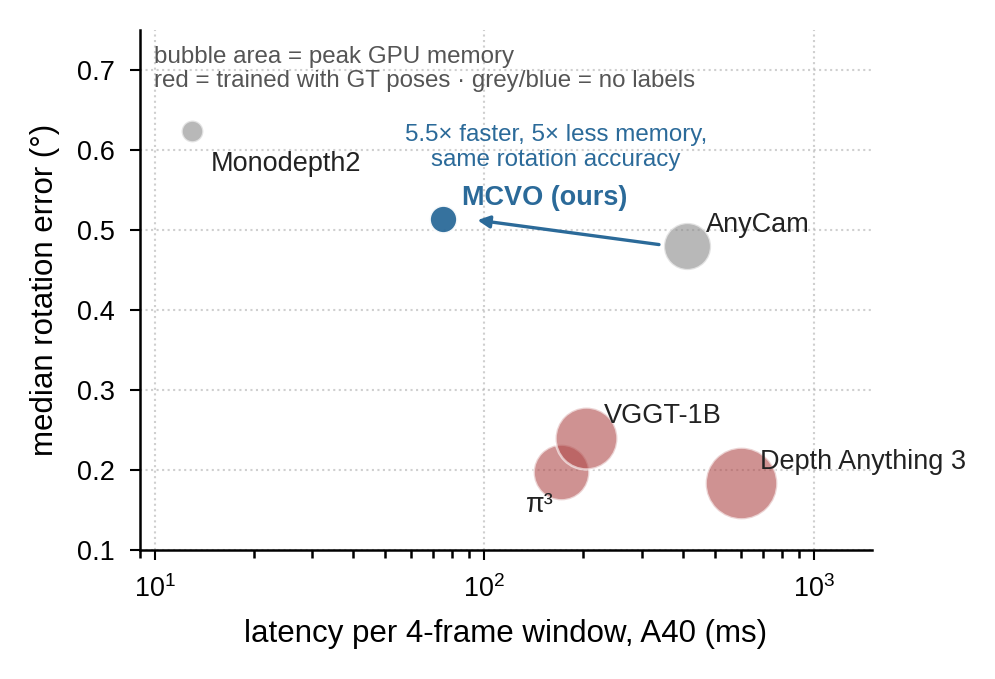
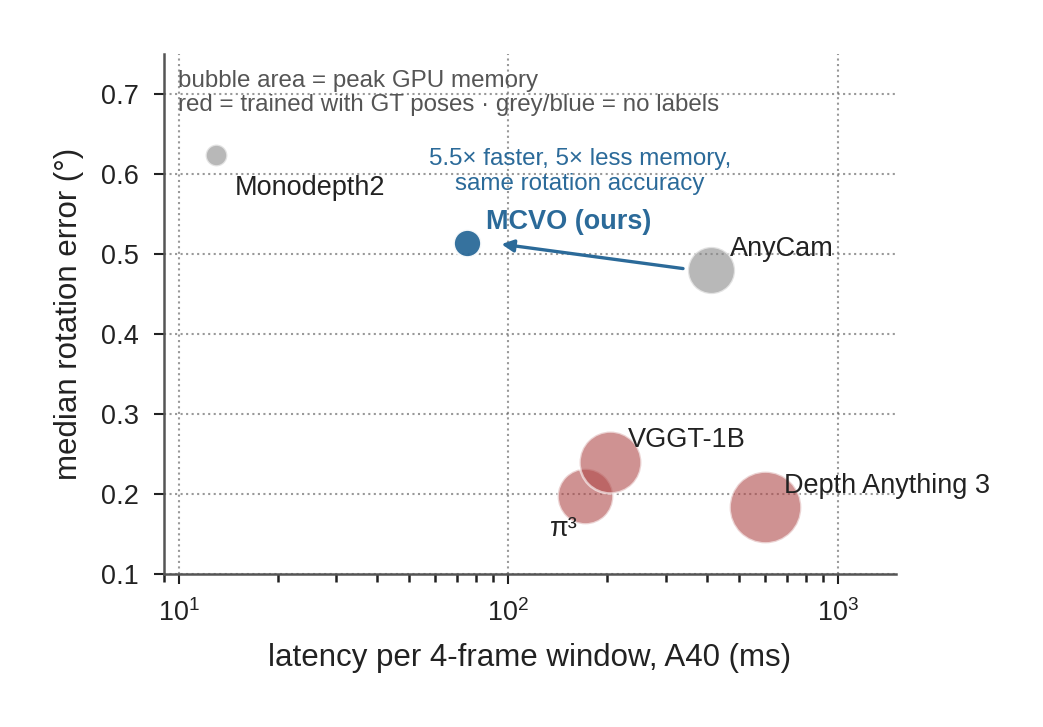
updated readme

diff --git a/assets/make_figures.py b/assets/make_figures.py
@@ -6,9 +6,14 @@ from PIL import Image
 from pathlib import Path
 plt.rcParams.update({"font.family": "Liberation Sans", "font.size": 7.5, "axes.linewidth": 0.6,
                      "xtick.labelsize": 6.5, "ytick.labelsize": 6.5, "axes.labelsize": 7.5, "legend.fontsize": 6.5})
-INK, GREY, MUTED = "#222222", "#555555", "#8a8a8a"
-BLUE, ORANGE, RED, GREEN, PURPLE = "#2b6a99", "#d9702e", "#b04a4a", "#2f7d4f", "#5b4b9a"
-FILL_BB, FILL_DEC, FILL_HEAD, FILL_TRAIN = "#eef0f7", "#eaf5ee", "#fdf1e6", "#fafafa"
+import os
+DARK = os.environ.get("THEME", "light") == "dark"
+SUF = "_dark" if DARK else ""
+BG = "#0d1117" if DARK else "white"
+INK, GREY, MUTED = ("#e6edf3", "#9da7b3", "#7d8590") if DARK else ("#222222", "#555555", "#8a8a8a")
+BLUE, ORANGE, RED, GREEN, PURPLE = ("#58a6ff", "#f0883e", "#ff7b72", "#3fb950", "#a371f7") if DARK else ("#2b6a99", "#d9702e", "#b04a4a", "#2f7d4f", "#5b4b9a")
+FILL_BB, FILL_DEC, FILL_HEAD, FILL_TRAIN = ("#1c2140", "#12301f", "#3a2412", "#161b22") if DARK else ("#eef0f7", "#eaf5ee", "#fdf1e6", "#fafafa")
+plt.rcParams.update({"figure.facecolor": BG, "axes.facecolor": BG, "savefig.facecolor": BG, "text.color": INK, "axes.labelcolor": INK, "xtick.color": INK, "ytick.color": INK, "axes.edgecolor": GREY, "grid.color": GREY, "legend.labelcolor": INK})
 TEXTW = 6.5  # inches, = \linewidth of the PDF
 
 K = Path.home()/"git/masters/anycam-extension/data/eval/kitti_odom"
@@ -74,7 +79,7 @@ for i in range(0, N, 26):
     for a_, b_ in [(0,1),(0,2),(0,3),(0,4),(1,2),(2,3),(3,4),(4,1)]:
         ax2.plot([P[a_,0],P[b_,0]],[P[a_,1],P[b_,1]],[P[a_,2],P[b_,2]], color=ORANGE, lw=0.55)
 ax2.set_box_aspect((np.ptp(x)+1, np.ptp(z)+1, 8), zoom=1.9); ax2.view_init(elev=32, azim=-60)
-ax2.set_xticks([]); ax2.set_yticks([]); ax2.set_zticks([]); ax2.grid(False); ax2.patch.set_alpha(0)
+ax2.set_axis_off(); ax2.patch.set_alpha(0)
 for axis in (ax2.xaxis, ax2.yaxis, ax2.zaxis):
     axis.pane.fill=False; axis.line.set_color((1,1,1,0)); axis.pane.set_edgecolor((1,1,1,0))
 cv.text(0.877, YP-0.135, "camera pose (R, t) of every frame", ha="center", va="center", fontsize=FS, color=INK)
@@ -93,18 +98,18 @@ cv.add_patch(FancyBboxPatch((X_IN0, 0.02), X_IN1-X_IN0, 0.275, boxstyle="round,p
 cv.text(X_IN0, 0.318, "training only, no labels", ha="left", va="center", fontsize=6.6, color=GREY, style="italic")
 YT_ROWS = [0.235, 0.155, 0.075]
 for yy, (name, what) in zip(YT_ROWS, [("UniDepth", "depth"), ("UniMatch", "flow"), ("AnyCalib", "K")]):
-    box(0.19, yy-0.038, 0.115, 0.076, name, what, fc="#ffffff", ec=MUTED, fs=6.2, subfs=5.4, tcol=INK)
+    box(0.19, yy-0.038, 0.115, 0.076, name, what, fc=BG, ec=MUTED, fs=6.2, subfs=5.4, tcol=INK)
 # merge lines from the three teachers into the loss box
 XM = 0.38
 for yy in YT_ROWS:
     seg([(0.305, yy), (XM, yy)], MUTED, 0.7)
 seg([(XM, YT_ROWS[0]), (XM, YT_ROWS[-1])], MUTED, 0.7)
 head(XM, 0.155, 0.44, 0.155, MUTED, 0.7)
-box(0.44, 0.045, 0.27, 0.22, "flow re-projection loss", "unproject with depth and K,\nmove by the predicted pose, re-project,\ncompare to the teacher flow per pixel", fc="#ffffff", ec=MUTED, fs=6.6, subfs=5.5, tcol=INK)
+box(0.44, 0.045, 0.27, 0.22, "flow re-projection loss", "unproject with depth and K,\nmove by the predicted pose, re-project,\ncompare to the teacher flow per pixel", fc=BG, ec=MUTED, fs=6.6, subfs=5.5, tcol=INK)
 # gradients: vertical dashed line from the loss box up into the inference box
 seg([(0.575, 0.265), (0.575, 0.40)], MUTED, 0.7, (0,(2,2))); head(0.575, 0.40, 0.575, 0.43, MUTED, 0.7)
 cv.text(0.585, 0.36, "gradients", ha="left", va="center", fontsize=5.6, color=MUTED, style="italic")
-fig.savefig("overview_mcvo.png", facecolor="white", dpi=300); print("overview ok")
+fig.savefig(f"overview_mcvo{SUF}.png", facecolor=BG, dpi=300, bbox_inches="tight", pad_inches=0.22); print("overview ok")
 
 # ============================================================ results: same size, same style
 def style(ax):
@@ -120,7 +125,7 @@ rows = [("MCVO (ours)", 75, 0.69, np.mean([0.46,0.89,0.19]), BLUE, True),
         ("Depth Anything 3", 600, 9.7, np.mean([0.19,0.27,0.09]), RED, False)]
 fig, ax = plt.subplots(figsize=(FW, FH), dpi=300)
 for name, lat, mem, rot, col, ours in rows:
-    ax.scatter(lat, rot, s=25+mem*28, color=col, alpha=0.95 if ours else 0.6, edgecolor="white", lw=0.6, zorder=3)
+    ax.scatter(lat, rot, s=25+mem*28, color=col, alpha=0.95 if ours else 0.6, edgecolor=BG, lw=0.6, zorder=3)
     dx = 0.78 if name == "π³" else 1.14
     dy = -0.05 if name in ("Monodepth2", "π³") else 0.018
     ax.annotate(name, (lat, rot), xytext=(lat*dx, rot+dy), fontsize=6.5, color=col if ours else INK, fontweight="bold" if ours else "normal", zorder=4)
@@ -130,7 +135,7 @@ ax.text(0.02, 0.97, "bubble area = peak GPU memory\nred = trained with GT poses 
 r_m, r_a = np.mean([0.46,0.89,0.19]), np.mean([0.50,0.74,0.20])
 ax.annotate("", xy=(75*1.2, r_m), xytext=(413/1.15, r_a), arrowprops=dict(arrowstyle="-|>", mutation_scale=6, color=BLUE, lw=0.8), zorder=2)
 ax.text(165, 0.58, "5.5× faster, 5× less memory,\nsame rotation accuracy", fontsize=5.8, color=BLUE, ha="center", linespacing=1.15)
-fig.savefig("benchmark_mcvo.png", bbox_inches="tight", facecolor="white", dpi=300); print("benchmark ok")
+fig.savefig(f"benchmark_mcvo{SUF}.png", bbox_inches="tight", pad_inches=0.18, facecolor=BG, dpi=300); print("benchmark ok")
 
 d = json.load(open(Path.home()/"git/masters/anycam-extension/thesis_results/figures/figure_data.json"))
 fig, ax = plt.subplots(figsize=(FW, FH), dpi=300)
@@ -142,5 +147,5 @@ ax.step(xw, d["anycam_fx"], where="mid", color=RED, lw=0.7, alpha=0.8, label="An
 ax.plot(xw, d["fat_fx"], color=BLUE, lw=1.3, label="ours, multi-frame calibration", zorder=4)
 ax.set_xlabel(f"window index, Sintel {d['sequence']}"); ax.set_ylabel("focal length (px)")
 lo, hi = np.percentile(np.r_[d["anycalib_fx"], d["fat_fx"]], [1, 99]); ax.set_ylim(min(lo, d["gt_fx"])*0.8, max(hi, d["gt_fx"])*1.25)
-style(ax); ax.set_ylim(0, 1250); ax.legend(loc="upper right", frameon=True, framealpha=0.9, edgecolor="none", ncol=1)
-fig.savefig("focal_mcvo.png", bbox_inches="tight", facecolor="white", dpi=300); print("focal ok")
+style(ax); ax.set_ylim(0, 1250); ax.legend(loc="upper right", frameon=True, framealpha=0.9, facecolor=BG, edgecolor="none", ncol=1)
+fig.savefig(f"focal_mcvo{SUF}.png", bbox_inches="tight", pad_inches=0.18, facecolor=BG, dpi=300); print("focal ok")

diff --git a/README.md b/README.md
@@ -11,7 +11,7 @@
 **MCVO** (*Multi-frame, Camera-only Visual Odometry*) is a transformer that reads a short window of video frames and predicts the relative camera pose between consecutive frames, plus a per-pixel uncertainty map. It sees **images only**. Training needs no ground truth: pretrained depth (UniDepth) and optical-flow (UniMatch) networks and a single-image calibrator (AnyCalib) act as *training-time teachers* through AnyCam's flow-reprojection loss, and are absent at inference. It grew out of a TU Munich master's thesis whose calibration model, MCT, is kept in this repository as the calibration branch (second half of this page).
 
 
-<p align="center"><img src="assets/overview_mcvo.png" alt="MCVO overview: uncalibrated monocular video → frozen DINOv2 → transformer decoder → pose head and calibration head → camera pose of every frame and intrinsics of the sequence; training only: UniDepth, UniMatch and AnyCalib supervise a flow re-projection loss" width="100%"></p>
+<p align="center"><picture><source media="(prefers-color-scheme: dark)" srcset="assets/overview_mcvo_dark.png"><img src="assets/overview_mcvo.png" alt="MCVO overview: uncalibrated monocular video → frozen DINOv2 → transformer decoder → pose head and calibration head → camera pose of every frame and intrinsics of the sequence; training only: UniDepth, UniMatch and AnyCalib supervise a flow re-projection loss" width="100%"></picture></p>
 <p align="center"><sub>Inference row inside the dotted box; the training row below is what supervises it — three frozen teacher networks feeding one flow re-projection loss, none of them used at test time. Frames from KITTI 07; the trajectory and K illustrate the two outputs.</sub></p>
 ---
 
@@ -28,10 +28,17 @@ Measured here, one protocol: same NVIDIA A40, identical 4-frame windows, CUDA-sy
 | Heading error, KITTI (zero-shot for ours) | 7.0° | 2.2° | 4.6° | 1.3° | 28.6° | 1.2° (trained on KITTI) |
 | Focal error, Sintel / TUM / KITTI | 21.8 % / 13.3 % / 42.4 % | 25.2 % / 7.6 % / 28.9 % | 34.0 % / 25.8 % / 37.1 % | 24.4 % / 4.6 % / 15.8 % | 70.3 % / 14.6 % / 66.9 % | — (pose only) |
 
-<p align="center"><img src="assets/benchmark_mcvo.png" alt="Median rotation error vs latency per 4-frame window; bubble area = peak GPU memory; red = trained with ground-truth poses, grey/blue = no labels" width="62%"></p>
+<p align="center"><picture><source media="(prefers-color-scheme: dark)" srcset="assets/benchmark_mcvo_dark.png"><img src="assets/benchmark_mcvo.png" alt="Median rotation error vs latency per 4-frame window; bubble area = peak GPU memory; red = trained with ground-truth poses, grey/blue = no labels" width="62%"></picture></p>
 <p align="center"><sub>The same table as a picture: rotation error (mean of the three medians) against latency, bubble area = peak GPU memory. MCVO matches its teacher pipeline (AnyCam) at 5.5× lower latency and 5× less memory, and sits about halfway between the label-free models and the billion-parameter supervised ones.</sub></p>
 
-How to read it, honestly. Against the billion-parameter supervised models MCVO runs at 5–14× lower peak memory and 2–8× lower latency with no labels at any stage, at roughly twice their rotation error, competitive heading on driving video, and near-chance heading on small-baseline indoor video (a limitation that did not respond to longer context, teacher distillation, an epipolar loss, or motion-rich extra data). Against the self-supervised pipelines it matches AnyCam's rotation at 5.5× lower latency. **It is not the cheapest learned pose model**: Monodepth2's photometric pose network — 13 M parameters, 13 ms, 0.09 GiB — is 6× faster and 8× lighter still, and on this protocol it is not far behind: worse rotation on Sintel and KITTI (0.80° / 0.30° vs 0.46° / 0.19°), better on TUM (0.77° vs 0.89°), better heading on Sintel and on KITTI, where it was trained. Patch-based SLAM with bundle adjustment (DPVO) and classical ORB-SLAM are also faster per frame and give far better trajectories, at the price of known intrinsics and (for DPVO) ground-truth poses. What MCVO occupies is the middle: transformer-class rotation accuracy in a window, image-only, no labels, at a small fraction of the cost of the models it approaches. Its intrinsics come from a 1.9k-parameter head on the camera token, distilled from the AnyCalib teacher with everything else frozen (`mcvo_e3_calib.pt`; pose output identical, cost unchanged): teacher-level on the kind of footage it was trained on (Sintel 21.8 %, TUM 13.3 % vs AnyCalib 20.1 / 11.2 %), clearly weaker on KITTI's narrow-FOV driving crops (42.4 % vs 18.4 %), which lie outside the training corpus' focal range. For calibration-critical use pair with the calibration branch below (MCT: 161 ms / 1.4 GiB, 20.4 % on KITTI).
+**What the table says**
+
+- Against the billion-parameter supervised models (π³, VGGT, Depth Anything 3): 5–14× lower peak memory and 2–8× lower latency, no labels at any stage, at roughly twice their rotation error. Heading is competitive on driving video and weak on small-baseline indoor video (see limitations).
+- Against its teacher pipeline (AnyCam): the same rotation accuracy and better heading at 5.5× lower latency, with nothing but images at inference.
+- Against the cheapest learned pose model (Monodepth2's photometric pose net, 13 M parameters, 13 ms): MCVO is heavier but more accurate on Sintel and KITTI (0.46° / 0.19° vs 0.80° / 0.30°) and runs across datasets without per-dataset training; Monodepth2 is better on TUM and on KITTI heading, where it was trained.
+- Patch-based SLAM with bundle adjustment (DPVO) and classical ORB-SLAM give better trajectories, at the price of known intrinsics (and, for DPVO, ground-truth poses for training).
+- Intrinsics come from a 1.9k-parameter head on the camera token, distilled from AnyCalib with everything else frozen (`mcvo_e3_calib.pt`; pose output and cost unchanged): teacher-level on the focal range of the training corpus (Sintel 21.8 %, TUM 13.3 % vs AnyCalib 20.1 / 11.2 %), weaker on KITTI's narrow-FOV driving crops (42.4 % vs 18.4 %). For calibration-critical use, pair it with the MCT branch below (161 ms / 1.4 GiB, 20.4 % on KITTI).
+- In one line: transformer-class rotation accuracy in a window, image-only, label-free, at a small fraction of the cost of the models it approaches.
 
 ## How MCVO works
 
@@ -52,7 +59,12 @@ PYTHONPATH=. python experiments/honest_benchmark.py --run_name mcvo_eval \
     --datasets sintel,tumrgbd,kitti --models mcvo:runs/mcvo/checkpoints/epoch_0006.pt
 ```
 
-**Known limitations, stated plainly.** Intrinsics from the distilled head are teacher-level in-domain but weak on narrow-FOV driving crops (KITTI 42 %). Translation direction on small-baseline indoor video is near chance; four interventions (longer context, teacher distillation, an epipolar/Sampson loss, motion-rich extra data) did not move it and it is treated as structural to flow-reprojection self-supervision when parallax is tiny. Trajectory-level accuracy trails AnyCam's long-context inference (0.18 vs 0.10 Sintel ATE) because short-window errors accumulate. History of every number on this page, including corrections: [CHANGELOG.md](CHANGELOG.md).
+**Limitations**
+
+- Intrinsics from the distilled head are teacher-level in-domain and weak on narrow-FOV driving crops (KITTI 42 %).
+- Translation direction on small-baseline indoor video is near chance. Longer context, teacher distillation, an epipolar/Sampson loss and motion-rich extra data did not change it; it is treated as structural to flow-reprojection self-supervision when parallax is tiny.
+- Trajectory-level accuracy trails AnyCam's long-context inference (0.18 vs 0.10 Sintel ATE) because short-window errors accumulate.
+- Every number on this page, with its corrections, is dated in [CHANGELOG.md](CHANGELOG.md).
 
 ---
 
@@ -60,7 +72,7 @@ PYTHONPATH=. python experiments/honest_benchmark.py --run_name mcvo_eval \
 
 MCVO predicts pose only. If you need intrinsics, this repository also contains **MCT** (Multi-Frame Calibration Transformer), a 25 M-parameter module that fuses [AnyCalib](https://arxiv.org/abs/2503.12701)'s intermediate features across the frames of a video into one calibration and plugs into the AnyCam pose pipeline — specialist-level focal accuracy at 161 ms / 1.4 GiB per 4-frame window. It comes from the TU Munich master's thesis this project grew out of; the full write-up, results, training phases and reproduction commands are in [`docs/thesis.md`](docs/thesis.md), weights at [`thekman17/anycam-mct`](https://huggingface.co/thekman17/anycam-mct).
 
-<p align="center"><img src="assets/focal_mcvo.png" alt="Focal length over a Sintel sequence: AnyCam's 32-candidate search jumps between discrete values, per-frame AnyCalib scatters, MCT stays near ground truth" width="62%"></p>
+<p align="center"><picture><source media="(prefers-color-scheme: dark)" srcset="assets/focal_mcvo_dark.png"><img src="assets/focal_mcvo.png" alt="Focal length over a Sintel sequence: AnyCam's 32-candidate search jumps between discrete values, per-frame AnyCalib scatters, MCT stays near ground truth" width="62%"></picture></p>
 <p align="center"><sub>What the multi-frame calibration buys on one sequence (Sintel alley_1, ground truth f = 530 px): the candidate search jumps between discrete focal lengths, per-frame estimates scatter, the multi-frame prediction stays near ground truth.</sub></p>
 
 ## Repository layout
